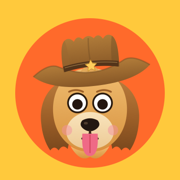
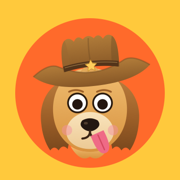
Side tongue and random dog tricks
The header dog zooms in on load, then does a random trick every 7-15s
(zoom, wink, hat tip, tongue wag, tilt, spin, bounce). Tap for a trick and a tip.

Changed region(s): [[0.4444, 0.7222, 0.6111, 0.8889]]

diff --git a/index.html b/index.html
@@ -83,11 +83,42 @@
     transform: rotate(-8deg);
     padding: 5px 6px 3px;
     cursor: pointer;
+    position: relative;
+    z-index: 31;
   }
   .sticker svg { width: 100%; height: 100%; display: block; transform-origin: 50% 85%; animation: bob 4.5s ease-in-out infinite; }
-  .sticker.wiggle svg { animation: wiggle .55s ease; }
   @keyframes bob { 0%, 100% { transform: rotate(-3deg); } 50% { transform: rotate(3deg); } }
-  @keyframes wiggle { 0%, 100% { transform: rotate(0); } 25% { transform: rotate(-14deg) scale(1.06); } 60% { transform: rotate(10deg) scale(1.06); } }
+  /* dog tricks: whole-sticker moves on the button, face moves on the inline svg parts */
+  .sticker .eye, .sticker .hat, .sticker .tongue { transform-box: fill-box; }
+  .sticker .eye { transform-origin: 50% 55%; }
+  .sticker .hat { transform-origin: 75% 100%; }
+  .sticker .tongue { transform-origin: 30% 0%; }
+  .sticker.g-zoom { animation: g-zoom 2.4s cubic-bezier(.3, 1.35, .5, 1); }
+  .sticker.g-spin { animation: g-spin .9s cubic-bezier(.4, 1.3, .6, 1); }
+  .sticker.g-tilt { animation: g-tilt 1.4s ease-in-out; }
+  .sticker.g-bounce { animation: g-bounce .9s ease; }
+  .sticker.g-wink .eye-r { animation: g-wink .6s ease; }
+  .sticker.g-hat .hat { animation: g-hat 1.3s ease-in-out; }
+  .sticker.g-wag .tongue { animation: g-wag 1.1s ease-in-out; }
+  @keyframes g-zoom {
+    0% { transform: rotate(-8deg) scale(1); }
+    22% { transform: translate(64px, 40px) rotate(6deg) scale(2.1); }
+    40% { transform: translate(64px, 40px) rotate(-6deg) scale(2.1); }
+    58% { transform: translate(64px, 40px) rotate(5deg) scale(2.1); }
+    76% { transform: translate(64px, 40px) rotate(0deg) scale(2.1); }
+    100% { transform: rotate(-8deg) scale(1); }
+  }
+  @keyframes g-spin { from { transform: rotate(-8deg); } to { transform: rotate(352deg); } }
+  @keyframes g-tilt { 0%, 100% { transform: rotate(-8deg); } 30%, 70% { transform: rotate(-28deg) translateY(-3px); } }
+  @keyframes g-bounce {
+    0%, 100% { transform: rotate(-8deg) translateY(0); }
+    30% { transform: rotate(-8deg) translateY(-22px); }
+    50% { transform: rotate(-8deg) translateY(0) scale(1.08, .92); }
+    70% { transform: rotate(-8deg) translateY(-9px); }
+  }
+  @keyframes g-wink { 0%, 100% { transform: scaleY(1); } 35%, 65% { transform: scaleY(.1); } }
+  @keyframes g-hat { 0%, 100% { transform: none; } 35%, 65% { transform: translate(8px, -24px) rotate(16deg); } }
+  @keyframes g-wag { 0%, 100% { transform: rotate(0); } 20% { transform: rotate(16deg); } 40% { transform: rotate(-10deg); } 60% { transform: rotate(13deg); } 80% { transform: rotate(-5deg); } }
   .brand-text { min-width: 0; }
   .brand-text .mono { color: var(--ink-2); margin: 0 0 4px; }
   h1 {
@@ -115,7 +146,7 @@
     font-weight: 700;
     font-size: .88rem;
     line-height: 1.3;
-    z-index: 30;
+    z-index: 32;
     animation: pop .25s ease;
   }
   @keyframes pop { from { transform: scale(.6); opacity: 0; } to { transform: scale(1); opacity: 1; } }
@@ -618,8 +649,7 @@
     <ellipse cx="94" cy="149" rx="3" ry="2" fill="#5c4634" opacity=".8"/>
     <path d="M100 160 Q100 170 89 171" fill="none" stroke="#3a2414" stroke-width="3" stroke-linecap="round"/>
     <path d="M100 160 Q100 170 111 171" fill="none" stroke="#3a2414" stroke-width="3" stroke-linecap="round"/>
-    <path d="M89 164 Q87 196 100 196 Q113 196 111 164 Z" fill="#ef6a86"/>
-    <path d="M100 166 L100 191" stroke="#d4485f" stroke-width="1.8" stroke-linecap="round"/>
+    <g transform="rotate(-24 111 165)"><path d="M101 163 Q99 194 111 194 Q123 194 121 163 Z" fill="#ef6a86"/><path d="M111 166 L111 189" stroke="#d4485f" stroke-width="1.8" stroke-linecap="round"/></g>
     <g transform="rotate(-6 100 52)">
       <ellipse cx="100" cy="86" rx="50" ry="7" fill="#9a6730" opacity=".25"/>
       <path d="M16 74 Q40 56 54 64 Q78 76 100 76 Q122 76 146 64 Q160 56 184 74 Q160 96 100 96 Q40 96 16 74 Z" fill="url(#hat)"/>
@@ -674,7 +704,39 @@
 <header class="wrap top">
   <div class="brand">
     <button class="sticker" id="dog" type="button" aria-label="Tap the dog for a tip">
-      <svg viewBox="0 0 200 212" role="img" aria-label="Smiling cocker spaniel in a cowboy hat"><use href="#mascot"/></svg>
+      <svg viewBox="0 0 200 212" role="img" aria-label="Smiling cocker spaniel in a cowboy hat">
+    <path d="M78 84 C48 86 26 112 30 148 Q32 172 43 188 Q49 180 55 188 Q61 178 68 186 Q76 150 80 118 C82 98 84 88 78 84 Z" fill="url(#ear)"/>
+    <path d="M122 84 C152 86 174 112 170 148 Q168 172 157 188 Q151 180 145 188 Q139 178 132 186 Q124 150 120 118 C118 98 116 88 122 84 Z" fill="url(#ear)"/>
+    <path d="M70 100 Q58 128 62 160" fill="none" stroke="#6b3f1a" stroke-width="2.4" stroke-linecap="round" opacity=".5"/>
+    <path d="M130 100 Q142 128 138 160" fill="none" stroke="#6b3f1a" stroke-width="2.4" stroke-linecap="round" opacity=".5"/>
+    <path d="M72 182 Q86 206 100 197 Q114 206 128 182 Q113 191 100 189 Q87 191 72 182 Z" fill="url(#coat)"/>
+    <path d="M100 70 C133 70 153 97 153 129 C153 166 128 190 100 190 C72 190 47 166 47 129 C47 97 67 70 100 70 Z" fill="url(#coat)"/>
+    <path d="M86 76 Q94 62 100 74 Q106 62 114 76 Q106 72 100 80 Q94 72 86 76 Z" fill="#e3a858"/>
+    <path d="M100 133 C121 133 134 148 134 161 C134 176 119 186 100 186 C81 186 66 176 66 161 C66 148 79 133 100 133 Z" fill="url(#muz)"/>
+    <circle cx="67" cy="159" r="7.5" fill="#f2909f" opacity=".5"/>
+    <circle cx="133" cy="159" r="7.5" fill="#f2909f" opacity=".5"/>
+    <path d="M70 104 Q80 99 90 104" fill="none" stroke="#9c5f28" stroke-width="2.6" stroke-linecap="round"/>
+    <path d="M110 104 Q120 99 130 104" fill="none" stroke="#9c5f28" stroke-width="2.6" stroke-linecap="round"/>
+    <g class="eye eye-l"><circle cx="82" cy="120" r="13.5" fill="#fff" stroke="#2a1a0e" stroke-width="2.5"/><circle cx="82" cy="122" r="7.5" fill="#241610"/></g>
+    <g class="eye eye-r"><circle cx="118" cy="120" r="13.5" fill="#fff" stroke="#2a1a0e" stroke-width="2.5"/><circle cx="118" cy="122" r="7.5" fill="#241610"/></g>
+    <path d="M89 145 Q100 139 111 145 Q117 152 108 158 Q100 163 92 158 Q83 152 89 145 Z" fill="#231812"/>
+    <ellipse cx="94" cy="149" rx="3" ry="2" fill="#5c4634" opacity=".8"/>
+    <path d="M100 160 Q100 170 89 171" fill="none" stroke="#3a2414" stroke-width="3" stroke-linecap="round"/>
+    <path d="M100 160 Q100 170 111 171" fill="none" stroke="#3a2414" stroke-width="3" stroke-linecap="round"/>
+    <g class="tongue"><g transform="rotate(-24 111 165)"><path d="M101 163 Q99 194 111 194 Q123 194 121 163 Z" fill="#ef6a86"/><path d="M111 166 L111 189" stroke="#d4485f" stroke-width="1.8" stroke-linecap="round"/></g></g>
+    <g class="hat"><g transform="rotate(-6 100 52)">
+      <ellipse cx="100" cy="86" rx="50" ry="7" fill="#9a6730" opacity=".25"/>
+      <path d="M16 74 Q40 56 54 64 Q78 76 100 76 Q122 76 146 64 Q160 56 184 74 Q160 96 100 96 Q40 96 16 74 Z" fill="url(#hat)"/>
+      <path d="M16 74 Q40 56 54 64 Q78 76 100 76 Q122 76 146 64 Q160 56 184 74" fill="none" stroke="#6f4a22" stroke-width="2" opacity=".45"/>
+      <path d="M60 72 Q57 34 66 27 Q73 22 79 30 Q85 20 92 28 Q100 20 108 28 Q115 20 121 30 Q127 22 134 27 Q143 34 140 72 Q100 62 60 72 Z" fill="url(#hat)"/>
+      <path d="M60 72 Q57 34 66 27 Q70 42 70 70 Q64 71 60 72 Z" fill="#9a6730" opacity=".45"/>
+      <path d="M140 72 Q143 34 134 27 Q130 42 130 70 Q136 71 140 72 Z" fill="#6f4a22" opacity=".4"/>
+      <path d="M100 27 Q98 48 100 64" fill="none" stroke="#6f4a22" stroke-width="2" opacity=".4"/>
+      <path d="M60 64 Q100 56 140 64 L139 72 Q100 64 61 72 Z" fill="#53341a"/>
+      <path d="M62 66 Q100 59 138 66" fill="none" stroke="#caa25f" stroke-width="1" opacity=".55"/>
+      <path d="M100 58 l2.6 5.3 5.8 .8 -4.2 4.1 1 5.8 -5.2 -2.8 -5.2 2.8 1 -5.8 -4.2 -4.1 5.8 -.8 z" fill="#ffce5c" stroke="#b9821f" stroke-width=".6"/>
+    </g></g>
+      </svg>
     </button>
     <div class="brand-text">
       <p class="mono">Arizona road trip · Oct 2026</p>
@@ -1159,6 +1221,29 @@
 
   function refreshAll() { renderExplore(); renderEats(); renderBucket(); }
 
+  // ---------- dog tricks ----------
+  const dogBtn = $('#dog');
+  const still = matchMedia('(prefers-reduced-motion: reduce)').matches;
+  const TRICKS = ['zoom', 'zoom', 'wink', 'hat', 'wag', 'tilt', 'spin', 'bounce'];
+  function tip(text) {
+    const b = $('#bubble');
+    b.textContent = text || TIPS[Math.floor(Math.random() * TIPS.length)];
+    b.hidden = false;
+    clearTimeout(tip.t); tip.t = setTimeout(() => { b.hidden = true; }, 2800);
+  }
+  function trick(name) {
+    const g = name || TRICKS[Math.floor(Math.random() * TRICKS.length)];
+    dogBtn.className = 'sticker'; void dogBtn.offsetWidth; dogBtn.classList.add('g-' + g);
+    clearTimeout(trick.t); trick.t = setTimeout(() => { dogBtn.className = 'sticker'; }, 2600);
+    return g;
+  }
+  function loop() {
+    setTimeout(() => {
+      if (!document.hidden && trick() === 'zoom') setTimeout(tip, 500);
+      loop();
+    }, 7000 + Math.random() * 8000);
+  }
+
   // ---------- events ----------
   document.addEventListener('click', e => {
     const el = e.target.closest('[data-heart],[data-done],[data-stop],[data-vibe],[data-day],[data-tab],[data-go],#dog');
@@ -1183,17 +1268,17 @@
       state.vibe = saved.size ? 'saved' : 'all'; state.stop = saved.size ? 'all' : state.stop;
       renderExplore(); show(el.dataset.go, true);
     } else if (el.id === 'dog') {
-      el.classList.remove('wiggle'); void el.offsetWidth; el.classList.add('wiggle');
-      const b = $('#bubble');
-      b.textContent = TIPS[Math.floor(Math.random() * TIPS.length)];
-      b.hidden = false;
-      clearTimeout(show.t); show.t = setTimeout(() => { b.hidden = true; }, 2600);
+      trick(); tip();
     }
   });
 
   renderNow(); refreshAll(); renderInfo();
   show(location.hash.slice(1), false);
   window.addEventListener('hashchange', () => show(location.hash.slice(1), false));
+  if (!still) {
+    setTimeout(() => { trick('zoom'); setTimeout(() => tip('Howdy, partner!'), 500); }, 1200);
+    loop();
+  }
 })();
 </script>
 </body>
